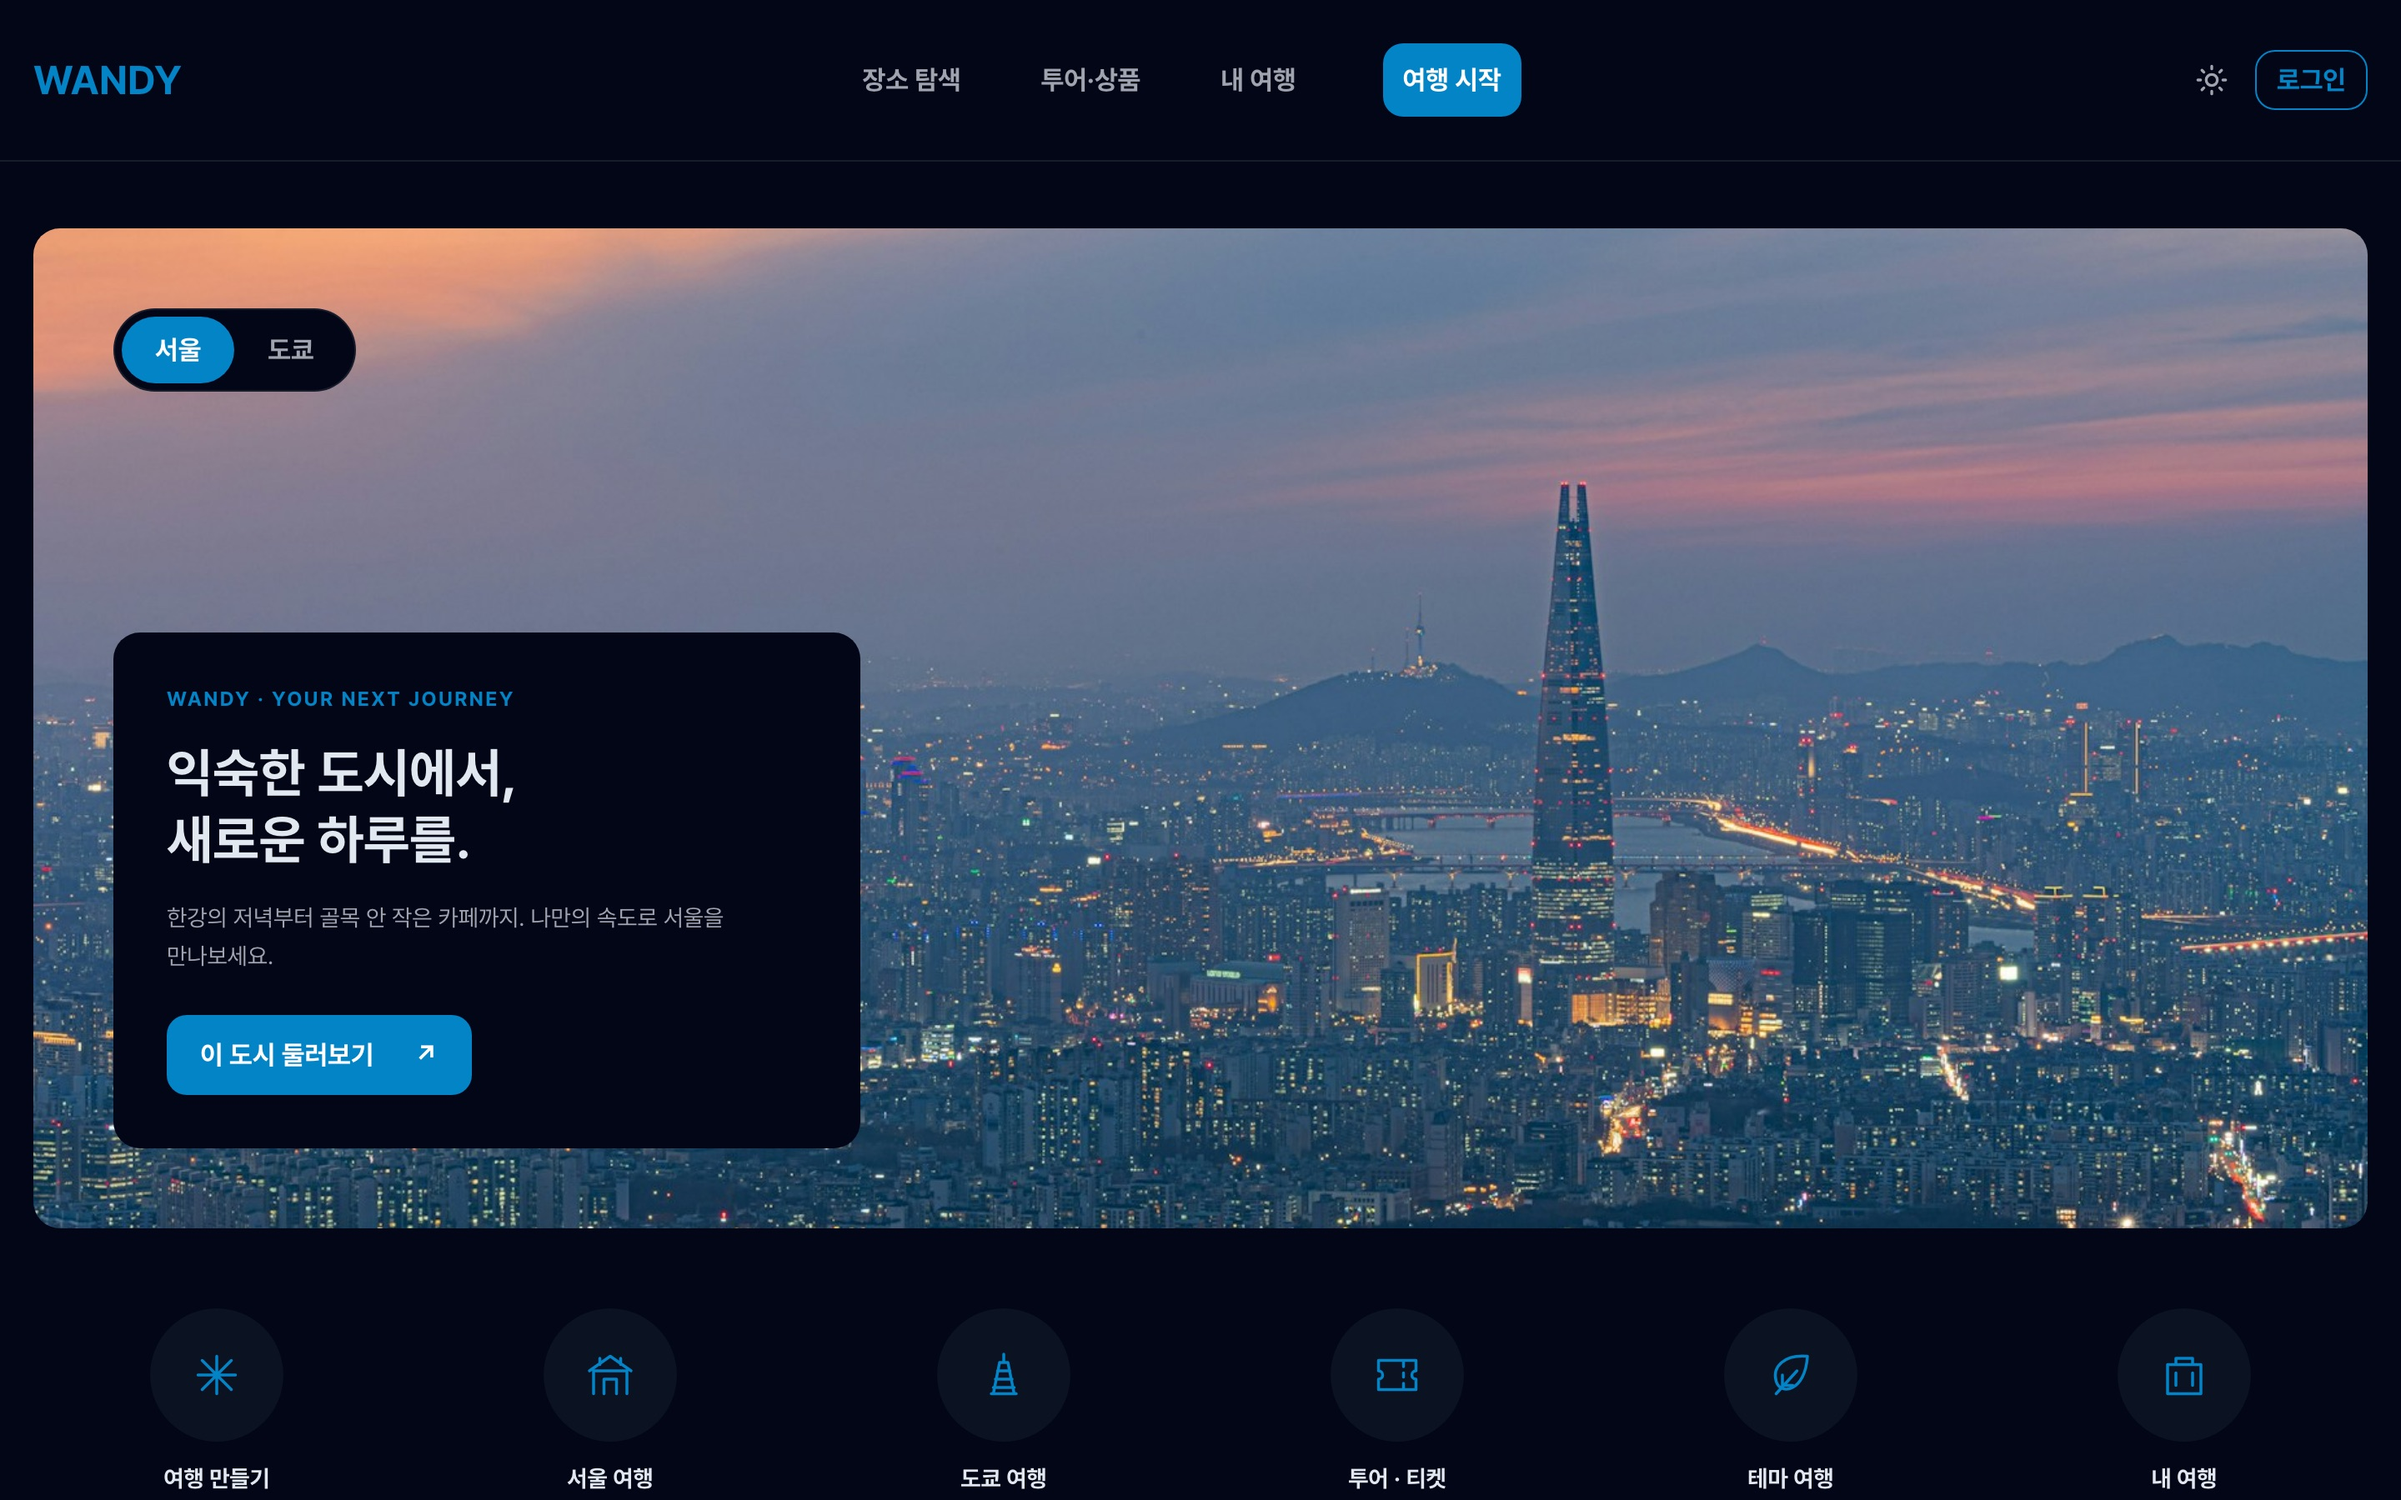
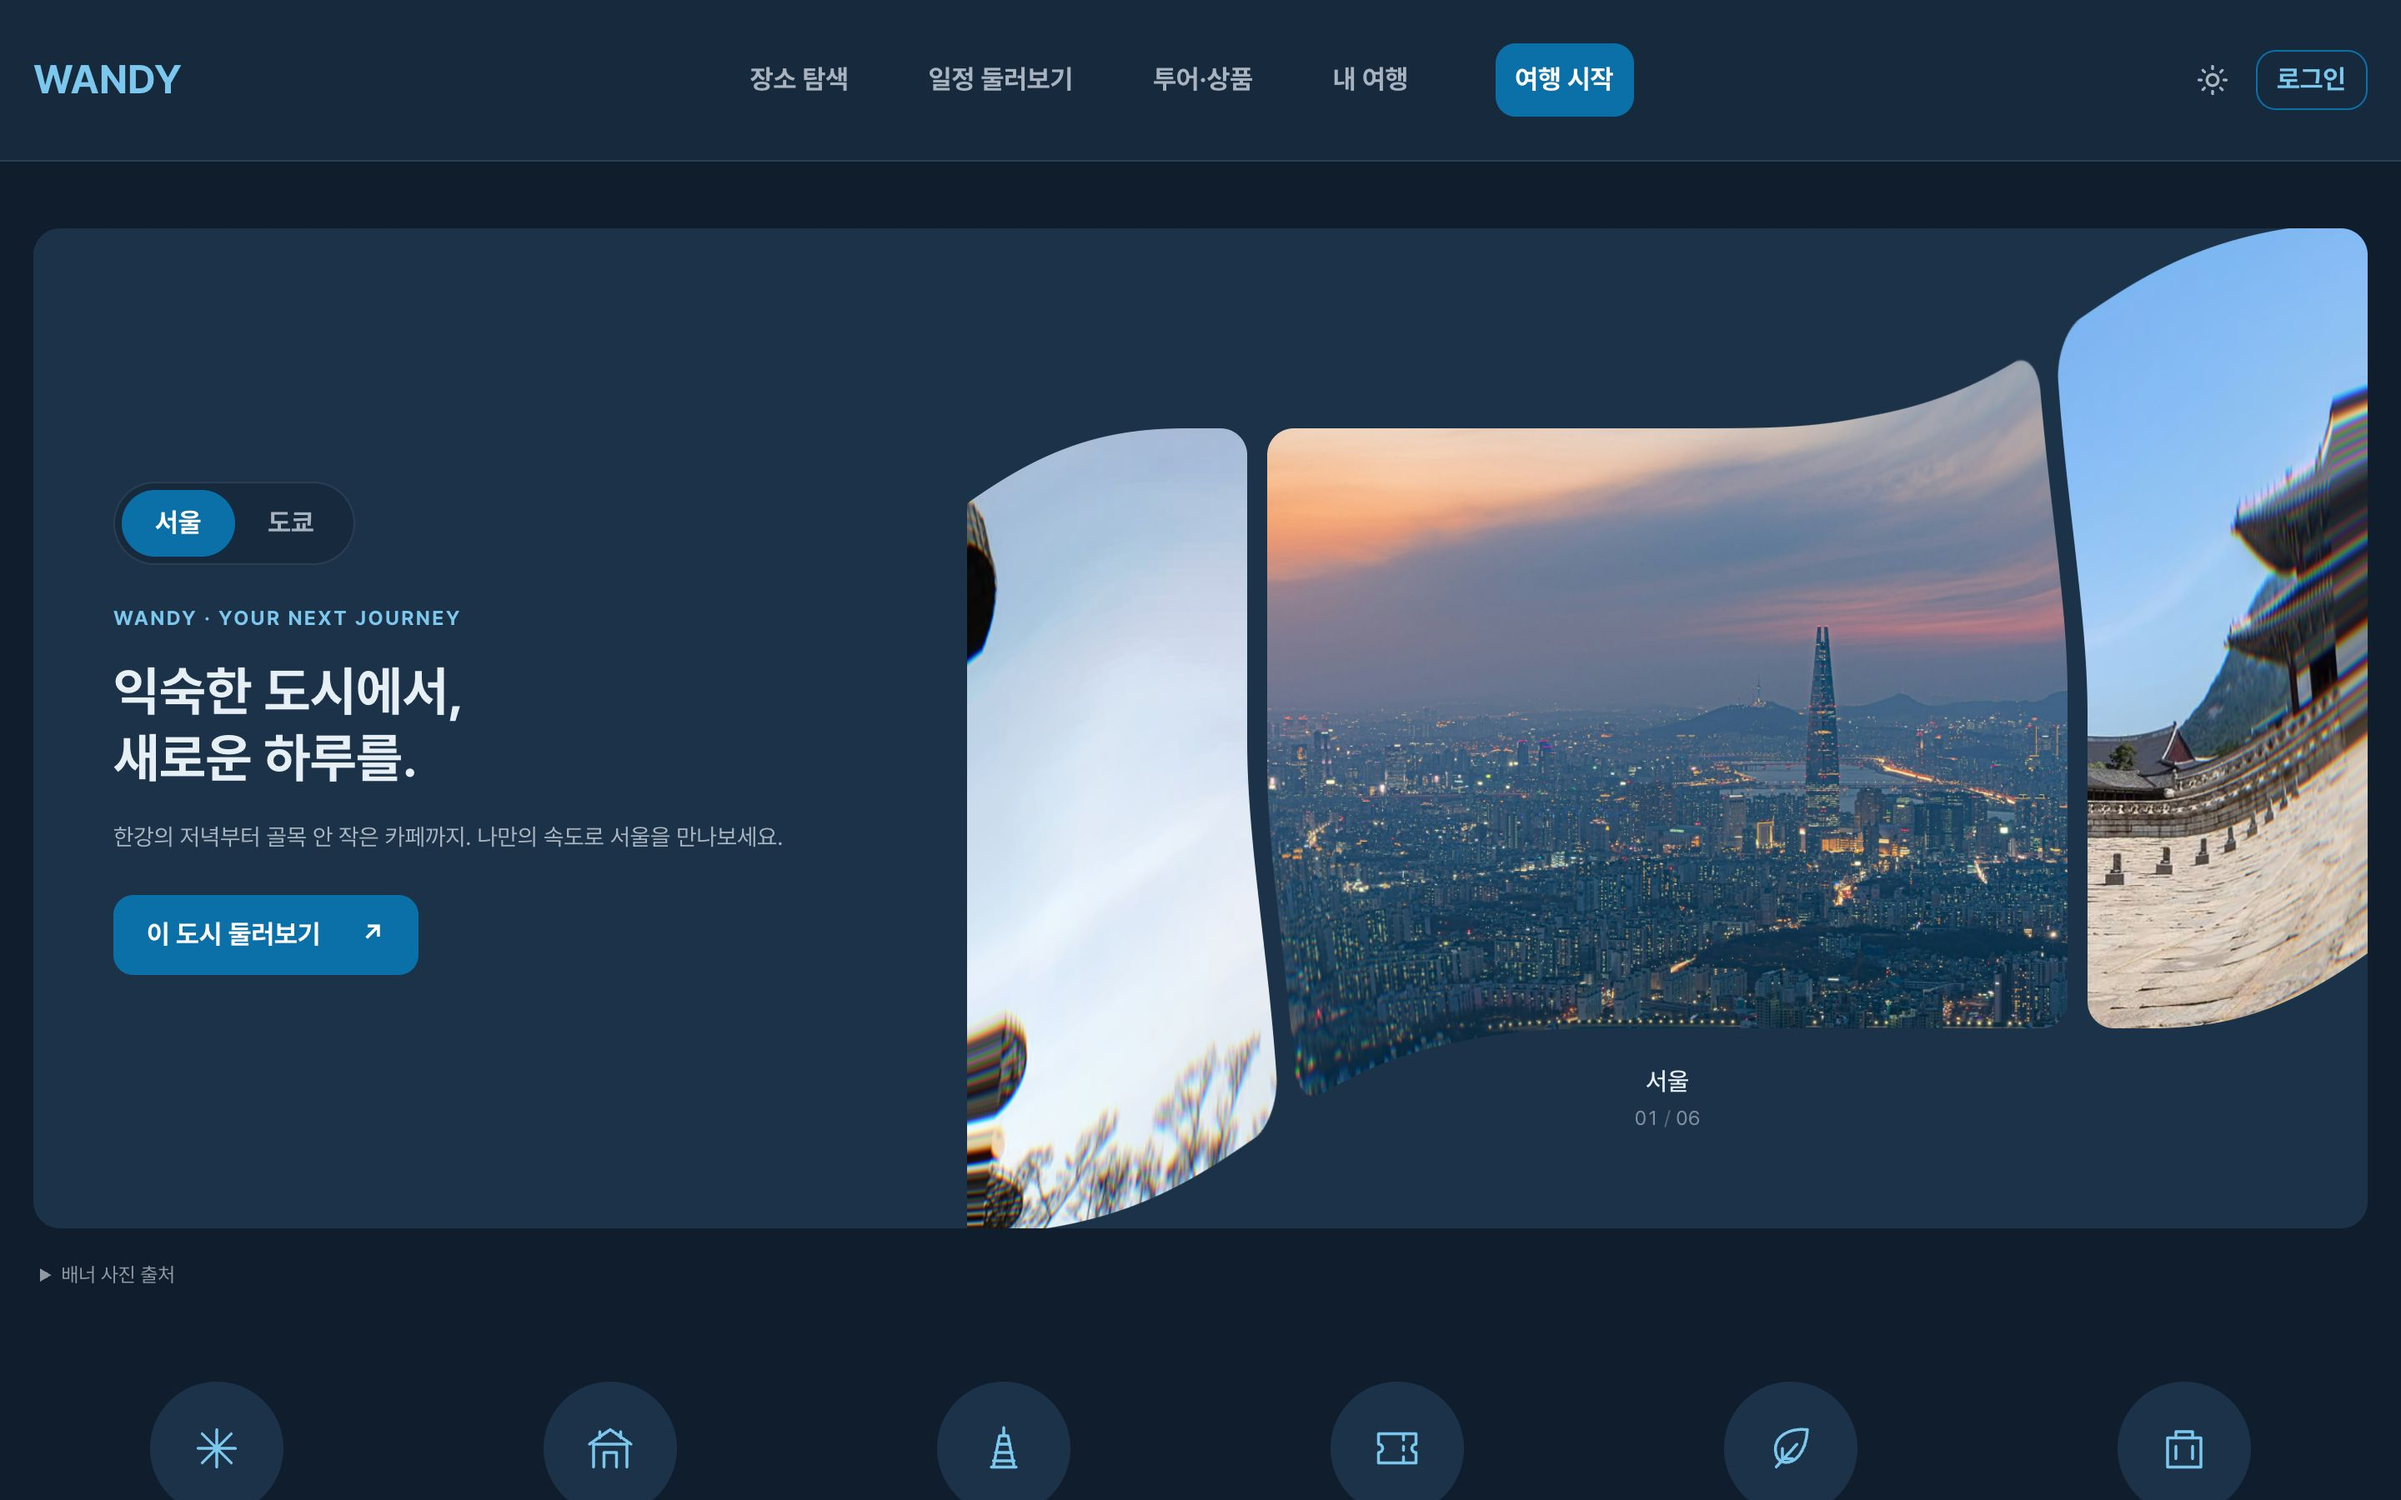
fix: 인트로가 끝날 때 노트북 화면 속 홈과 실제 홈이 어긋나는 문제 (#2) (#145)
## 요약
첫 방문 스크롤 인트로(#2)가 끝나고 실제 홈으로 넘어갈 때 노트북 화면 속 홈과 실제 홈이 맞지 않았다. 원인은 세 가지였다.

| 원인 | 수정 |
|---|---|
| 노트북 화면에 얹는 홈 사진(`public/intro/page-light.jpg`, `page-dark.jpg`)이 디자인
개편(#140) 전 화면이었다. | 지금 홈을 `constants.js` 안내대로 1440×900 2배로 다시
찍었다(라이트·다크, 배너 첫 사진 「서울 1/6」). |
| 홈은 인트로 뒤에 미리 그려져서, 인트로를 넘기는 20초 동안 배너가 자동으로 넘어갔다. 끝나면 노트북 속 사진(첫 장)과
다른 사진이 보였다. | `IntroPlayingContext`로 인트로 중임을 알린다. `HomeHero`는 그동안 자동 넘김을
끄고, 끝나면 배너를 다시 그려 첫 사진부터 시작한다(라이트 Depth·다크 Flex 둘 다). |
| 덮개가 걷히는 0.5초 동안 휠·트랙패드 관성 스크롤이 이어져서 홈이 내려간 채로 드러났다. | `leaving` 동안
`wheel`·`touchmove`를 막는다. |

## 확인 사항
- 1920×1080(화면 1536×864, 125%)에서 인트로를 끝까지 스크롤해 영상으로 확인했다. 노트북 속 홈과 드러난
홈이 같은 헤더·배너(서울 1/6)로 이어진다.
- 남은 차이: 노트북 화면이 16:10이라 16:9 화면에서는 넘어가는 0.5초 동안 글자 위치가 살짝 겹쳐 보인다.
- 파일별 커밋마다 `vite build`, `oxlint` 통과.

🤖 Generated with [Claude Code](https://claude.com/claude-code)

---------

diff --git a/src/pages/Home/HomeHero.jsx b/src/pages/Home/HomeHero.jsx
@@ -2,6 +2,7 @@ import { useState } from 'react';
 import { useTranslation } from 'react-i18next';
 import { Link, useNavigate } from 'react-router-dom';
 import { useDocumentTheme } from '../../components/common/useDocumentTheme';
+import { useIntroPlaying } from '../../features/intro/hooks/useIntroPlaying';
 import FlexCarousel from '../../vendor/reactbits/FlexCarousel';
 import { HERO_CAROUSEL_ITEMS } from './heroCarouselItems';
 import HeroDepthBanner from './HeroDepthBanner';
@@ -15,11 +16,13 @@ const DESTINATIONS = ['seoul', 'tokyo'];
 // 휘는 효과가 밝은 화면에서는 눈이 피로해서 나눴다. 헤더에서 테마를 바꾸면 바로 갈아 끼운다.
 // 가운데 사진을 누르면 그 장소·도시로 간다. 휠은 페이지 스크롤에 남겨 둔다(captureWheel 끔).
 // 다크 모드에서 움직임 줄이기를 켰거나 WebGL이 없으면 Depth Carousel로 대신한다.
+// 첫 방문 인트로가 도는 동안은 자동 넘김을 멈추고, 끝나면 첫 사진부터 다시 그린다 (노트북 화면 속 사진과 맞춘다).
 export default function HomeHero() {
   const { t } = useTranslation();
   const navigate = useNavigate();
   const canAnimate = useCarouselSupport();
   const theme = useDocumentTheme();
+  const introPlaying = useIntroPlaying();
   const [city, setCity] = useState('seoul');
   // 서울·도쿄 버튼으로 고른 도시의 사진만 보여 준다. 섞어 보여 주면 글은 서울인데 사진은 도쿄라 구분이 안 된다.
   const cityItems = HERO_CAROUSEL_ITEMS.filter((item) => item.city === city);
@@ -30,12 +33,12 @@ export default function HomeHero() {
         <div className="relative h-84 text-text sm:h-100 lg:order-2 lg:col-span-3 lg:h-150">
           {theme === 'dark' && canAnimate ? (
             <FlexCarousel
-              key={city}
+              key={`${city}-${introPlaying}`}
               items={cityItems}
               fit="landscape"
               cardHeight={0.6}
               radius={16}
-              autoplay
+              autoplay={!introPlaying}
               interval={4}
               captions
               focusOnClick={false}
@@ -47,7 +50,11 @@ export default function HomeHero() {
               }
             />
           ) : (
-            <HeroDepthBanner key={city} items={cityItems} />
+            <HeroDepthBanner
+              key={`${city}-${introPlaying}`}
+              items={cityItems}
+              autoplay={!introPlaying}
+            />
           )}
         </div>
         <div className="flex flex-col gap-6 p-5 sm:p-8 lg:col-span-2 lg:justify-center lg:p-12">

diff --git a/src/features/intro/components/IntroGate.jsx b/src/features/intro/components/IntroGate.jsx
@@ -1,9 +1,11 @@
-import { useCallback, useLayoutEffect, useRef, useState } from 'react';
+import { useCallback, useEffect, useLayoutEffect, useRef, useState } from 'react';
+import { IntroPlayingContext } from '../hooks/useIntroPlaying';
 import { markIntroSeen, shouldPlayIntro } from '../utils/introVisit';
 import IntroOverlay from './IntroOverlay';
 
 // 처음 온 사람에게 스크롤 인트로를 먼저 보여주고, 끝나면 children(홈 화면) 맨 위로 넘겨준다.
 // 인트로 동안은 위쪽에 긴 빈 공간을 두어 스크롤로 진행도를 만든다.
+// 인트로가 도는지는 IntroPlayingContext로 알려서, 홈 배너가 그동안 자동으로 넘어가지 않게 한다.
 export default function IntroGate({ children }) {
   const [phase, setPhase] = useState(() => (shouldPlayIntro() ? 'playing' : 'off'));
   const spacerRef = useRef(null);
@@ -27,10 +29,26 @@ export default function IntroGate({ children }) {
     if (phase === 'leaving') window.scrollTo(0, 0);
   }, [phase]);
 
+  // 덮개가 걷히는 동안은 휠·터치 스크롤을 막는다. 인트로를 넘기던 스크롤(트랙패드 관성 포함)이 이어지면
+  // 홈이 내려간 채로 드러나서 노트북 화면 속 첫 화면과 어긋난다.
+  useEffect(() => {
+    if (phase !== 'leaving') return undefined;
+    const block = (event) => event.preventDefault();
+    const options = { passive: false };
+    window.addEventListener('wheel', block, options);
+    window.addEventListener('touchmove', block, options);
+    return () => {
+      window.removeEventListener('wheel', block, options);
+      window.removeEventListener('touchmove', block, options);
+    };
+  }, [phase]);
+
   return (
     <>
       {phase === 'playing' && <div ref={spacerRef} aria-hidden="true" className="h-[1600vh]" />}
-      <div inert={phase === 'playing'}>{children}</div>
+      <IntroPlayingContext value={phase === 'playing'}>
+        <div inert={phase === 'playing'}>{children}</div>
+      </IntroPlayingContext>
       {phase !== 'off' && (
         <IntroOverlay
           getProgress={getProgress}

diff --git a/src/pages/Home/HeroDepthBanner.jsx b/src/pages/Home/HeroDepthBanner.jsx
@@ -17,7 +17,7 @@ const PHOTO_RATIO = 0.75;
 // 라이트 모드 홈 히어로 배너 (React Bits Depth Carousel). 앞에 큰 사진 한 장, 뒤로 다음 사진들이 겹쳐 보인다.
 // 플렉스 캐러셀(다크 모드)의 휘는 효과는 밝은 화면에서 눈이 피로해서, 사진을 왜곡하지 않는 쪽을 쓴다.
 // 가운데 사진을 한 번 더 누르면 그 장소·도시로 간다. 움직임 줄이기를 켜면 원본이 자동 넘김을 끈다.
-export default function HeroDepthBanner({ items }) {
+export default function HeroDepthBanner({ items, autoplay = true }) {
   const { t } = useTranslation();
   const navigate = useNavigate();
   const boxRef = useRef(null);
@@ -49,7 +49,7 @@ export default function HeroDepthBanner({ items }) {
           tint="var(--color-bg-soft)"
           blur={3}
           tilt={14}
-          autoplay
+          autoplay={autoplay}
           autoplayDelay={4500}
           onChange={(index) => setActive(index)}
           onSelect={(_, item) => navigate(item.link)}

diff --git a/src/features/intro/hooks/useIntroPlaying.js b/src/features/intro/hooks/useIntroPlaying.js
@@ -1,0 +1,7 @@
+import { createContext, useContext } from 'react';
+
+// 인트로가 도는 동안인지. 홈 화면은 인트로 뒤에 미리 그려져 있어서, 그동안 배너가 자동으로 넘어가면
+// 인트로가 끝났을 때 노트북 화면 속 사진(첫 장)과 다른 사진이 보인다. 그래서 배너가 이 값을 보고 멈춘다.
+export const IntroPlayingContext = createContext(false);
+
+export const useIntroPlaying = () => useContext(IntroPlayingContext);
